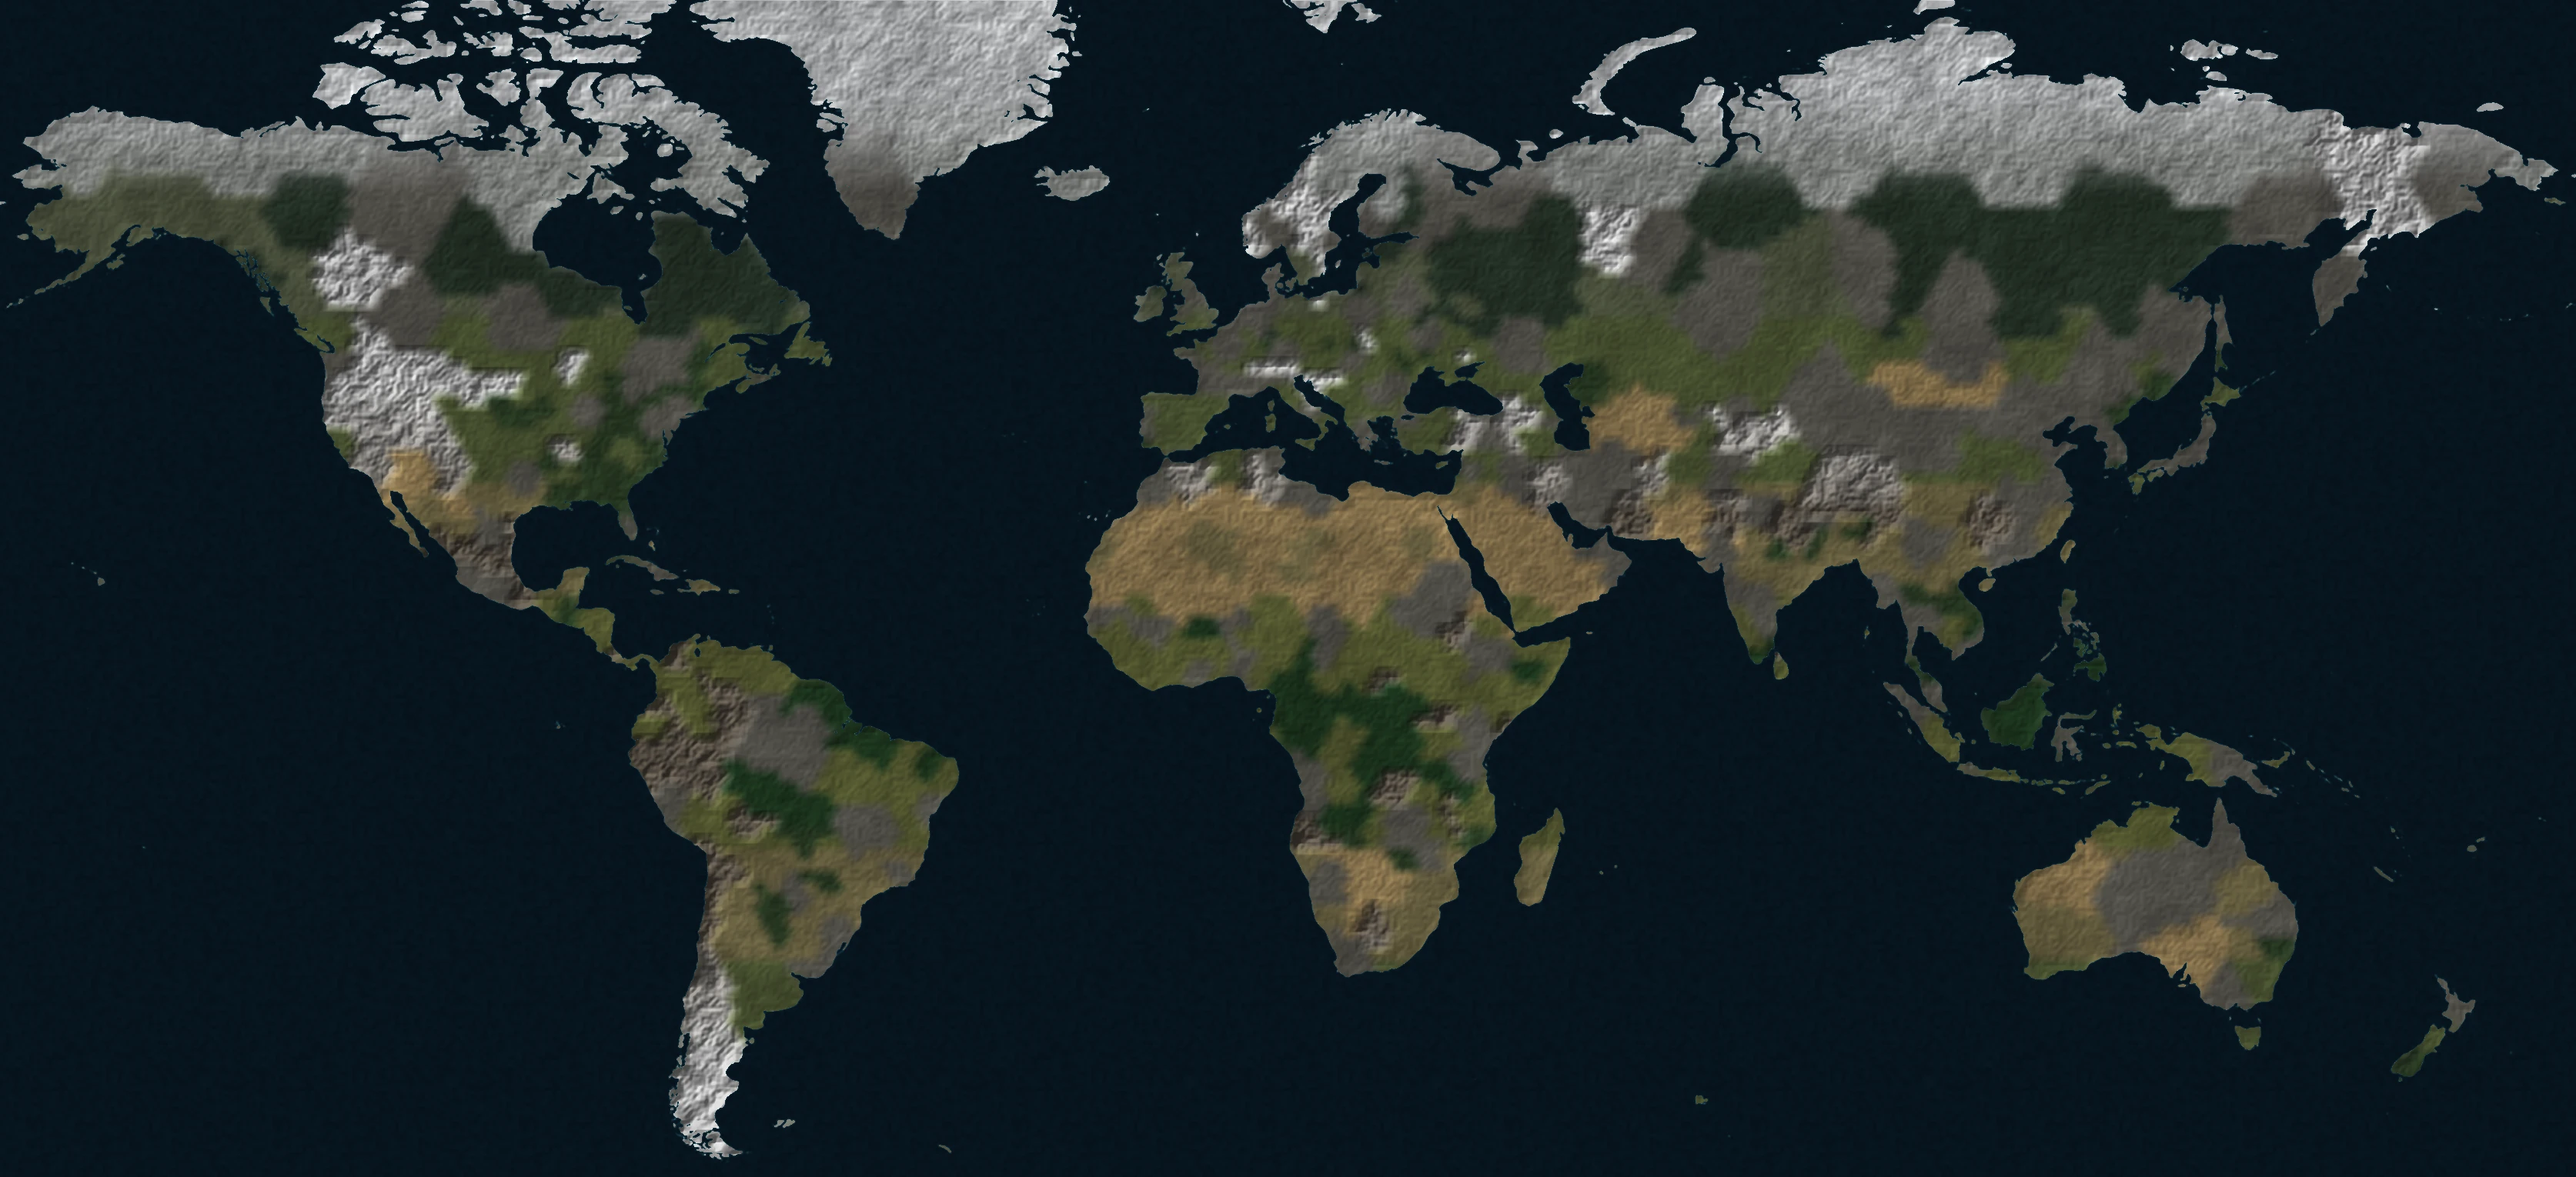
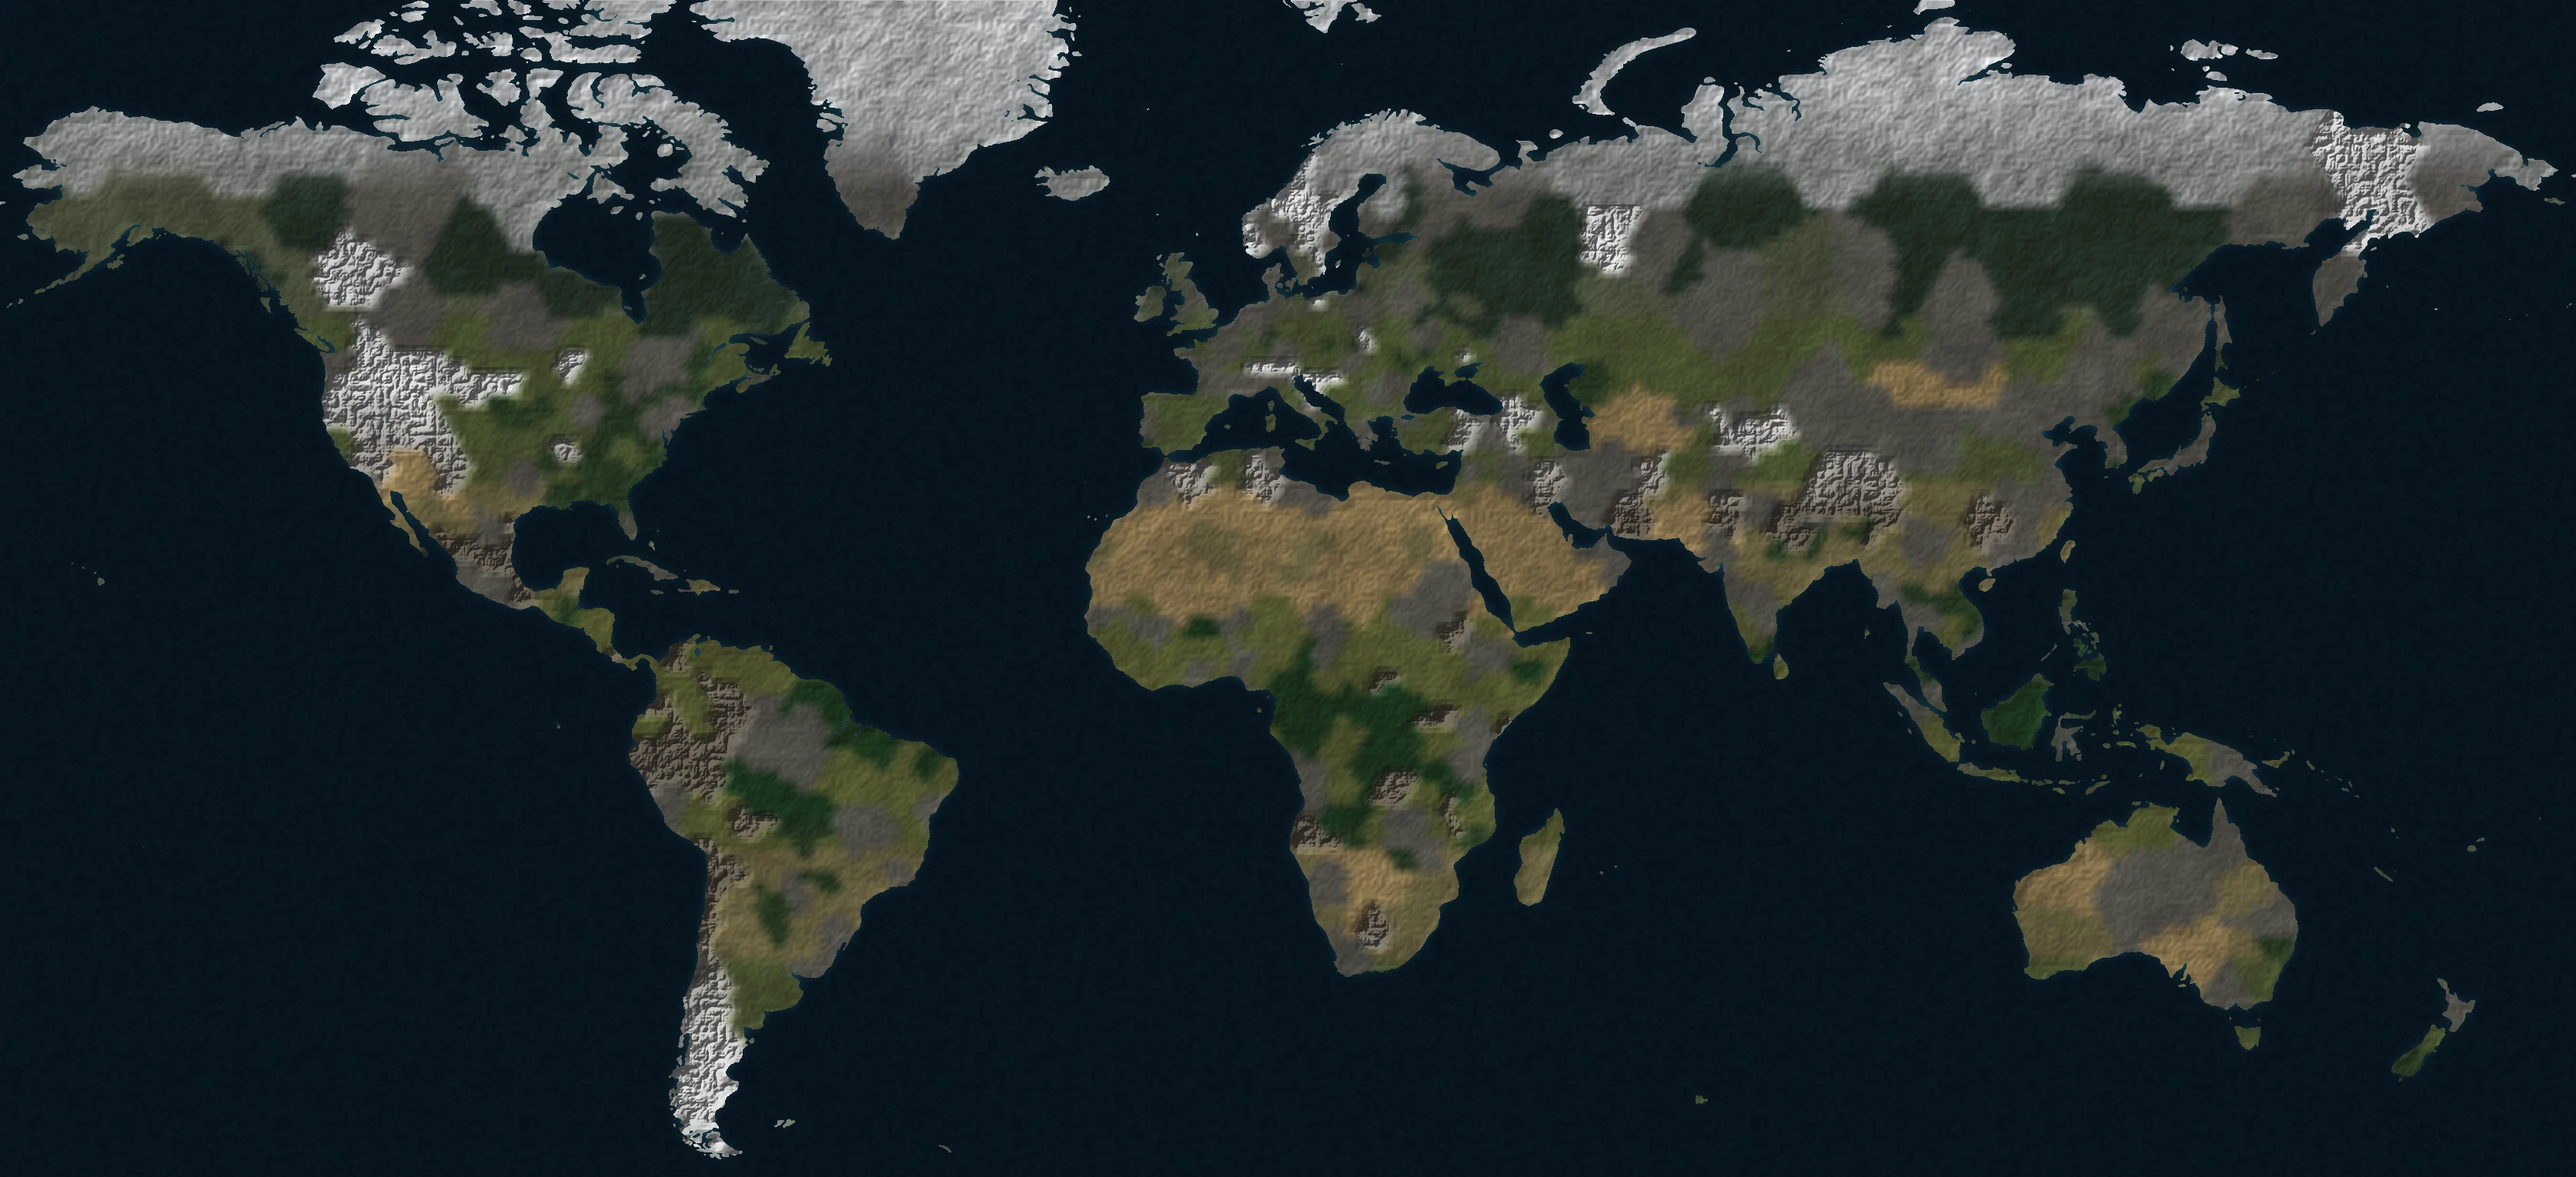
Round 29: shallow-water shelf, ridged mountains, night light pools, city halos, tracer streaks
Claude-Session: https://claude.ai/code/session_01KVGBc2Umi6eiR6tSvLXXtJ

diff --git a/index.html b/index.html
@@ -765,7 +765,7 @@ function buildTerrain(){
   // fill sea cells' colours with nearest land colour so blends at the coast are not grey
   for (let pass = 0; pass < 2; pass++) for (let i = 0; i < N; i++){ if (landF[i] || cR[i]) continue; let n = 0, r = 0, g = 0, b = 0;
     for (let d = 0; d < 6; d++){ const m = nbr(i, d); if (m >= 0 && cR[m]){ r += cR[m]; g += cG[m]; b += cB[m]; n++; } } if (n){ cR[i] = r/n; cG[i] = g/n; cB[i] = b/n; } }
-  const n1 = makeNoise(mulberry(101)), n2 = makeNoise(mulberry(202)), n3 = makeNoise(mulberry(303));
+  const n1 = makeNoise(mulberry(101)), n2 = makeNoise(mulberry(202)), n3 = makeNoise(mulberry(303)), n4 = makeNoise(mulberry(404));
   const rowStep = 1.5*HS, colStep = HS*SQ3;
   function sample(F, wx, wy){
     const cy = (wy - OY)/rowStep; let r0 = Math.floor(cy); const fy = cy - r0;
@@ -776,14 +776,16 @@ function buildTerrain(){
     return acc0;
   }
   // real coastlines (bake only): Natural Earth land rings in grid units ×40, plus a small disc at every land province so none vanish
-  let RLA = null;
+  let RLA = null, RLB = null;
   if (window.LANDPOLY){ const rc = document.createElement('canvas'); rc.width = w; rc.height = h; const g = rc.getContext('2d');
     g.setTransform(TS*HS*SQ3/40, 0, 0, TS*HS*1.5/40, TS*OX, TS*OY); g.beginPath();
     for (const off of [-W*40, 0, W*40]) for (const R of window.LANDPOLY){ g.moveTo(R[0] + off, R[1]); for (let i = 2; i < R.length; i += 2) g.lineTo(R[i] + off, R[i + 1]); g.closePath(); }
     g.fillStyle = '#fff'; g.fill('evenodd');
     g.setTransform(TS, 0, 0, TS, 0, 0); for (const P of G.P){ if (P.sea) continue; g.beginPath(); g.arc(P.x, P.y, HS*(P.city ? 0.5 : 0.32), 0, Math.PI*2); g.fill(); }
     const bc = document.createElement('canvas'); bc.width = w; bc.height = h; const bg = bc.getContext('2d'); bg.filter = 'blur(1.2px)'; bg.drawImage(rc, 0, 0);
-    const d = bg.getImageData(0, 0, w, h).data; RLA = new Float32Array(w*h); for (let i = 0; i < w*h; i++) RLA[i] = d[i*4 + 3]/255; }
+    const d = bg.getImageData(0, 0, w, h).data; RLA = new Float32Array(w*h); for (let i = 0; i < w*h; i++) RLA[i] = d[i*4 + 3]/255;
+    const sc2 = document.createElement('canvas'); sc2.width = w; sc2.height = h; const sg = sc2.getContext('2d'); sg.filter = 'blur(9px)'; sg.drawImage(rc, 0, 0);
+    const d2 = sg.getImageData(0, 0, w, h).data; RLB = new Float32Array(w*h); for (let i = 0; i < w*h; i++) RLB[i] = d2[i*4 + 3]/255; }
   const img = new ImageData(w, h), px = img.data, E = new Float32Array(w*h), L = new Float32Array(w*h);
   const mimg = new ImageData(w, h), mpx = mimg.data;
   for (let y = 0; y < h; y++){ const wy = y/TS;
@@ -792,12 +794,13 @@ function buildTerrain(){
       const land = RLA ? RLA[o]*0.9 + sample(landF, wx, wy)*0.1 + (fbm - 0.5)*0.12 : sample(landF, wx, wy) + (fbm - 0.5)*0.42;
       L[o] = land;
       const el = Math.max(0, sample(elevF, wx, wy));
-      E[o] = el*(0.45 + 0.9*nB + 0.35*nC) + nC*0.05;
+      const rg = el > 0.6 ? Math.pow(1 - Math.abs(2*n4(wx*0.07, wy*0.07) - 1), 2)*0.9 + Math.pow(1 - Math.abs(2*n4(wx*0.19 + 7, wy*0.19) - 1), 2)*0.35 : 0;   // ridged peaks in mountains
+      E[o] = el*(0.45 + 0.9*nB + 0.35*nC) + nC*0.05 + rg*el;
       if (land > 0.5){
         const v = 0.86 + (fbm - 0.5)*0.32;
         px[o*4] = sample(cR, wx, wy)*v; px[o*4 + 1] = sample(cG, wx, wy)*v; px[o*4 + 2] = sample(cB, wx, wy)*v;
       } else {
-        const depth = Math.max(0, Math.min(1, land/0.5)), sh = depth*depth, wave = (nC - 0.5)*6;
+        const depth = Math.max(0, Math.min(1, RLB ? Math.max(land/0.5*0.6, RLB[o]*1.15) : land/0.5)), sh = depth*depth, wave = (nC - 0.5)*6;
         px[o*4] = 7 + 17*sh + wave*0.4; px[o*4 + 1] = 20 + 44*sh + wave; px[o*4 + 2] = 30 + 46*sh + wave;
       }
       px[o*4 + 3] = 255;
@@ -1028,7 +1031,9 @@ function drawParticles(now){
     const x = fx0 + (tx0 - fx0)*k, y = fy0 + (ty0 - fy0)*k - Math.sin(k*Math.PI)*pr.arc*kz;
     if (pr.kind === 'tracer'){ const x2 = fx0 + (tx0 - fx0)*Math.max(0, k - 0.18), y2 = fy0 + (ty0 - fy0)*Math.max(0, k - 0.18); ctx.strokeStyle = 'rgba(255,225,140,.9)'; ctx.lineWidth = 1.4; ctx.beginPath(); ctx.moveTo(x2, y2); ctx.lineTo(x, y); ctx.stroke(); }
     else { if (pr.kind === 'missile' && now - pr.last > 30){ pr.last = now; const [wx, wy] = screenToWorld(x, y); emit('smokel', wx, wy, {vx:(Math.random() - 0.5)*4, vy:-2, s0:4, s1:14, life:1300}); }
-      ctx.save(); ctx.globalCompositeOperation = 'lighter'; ctx.drawImage(GLOW(), x - 6, y - 6, 12, 12); ctx.restore(); ctx.fillStyle = '#fff2c8'; ctx.beginPath(); ctx.arc(x, y, 1.6, 0, Math.PI*2); ctx.fill(); } }
+      const kb = Math.max(0, k - 0.07), xb = fx0 + (tx0 - fx0)*kb, yb = fy0 + (ty0 - fy0)*kb - Math.sin(kb*Math.PI)*pr.arc*kz;
+      ctx.save(); ctx.globalCompositeOperation = 'lighter'; ctx.strokeStyle = pr.kind === 'missile' ? 'rgba(255,190,120,.9)' : 'rgba(255,236,190,.95)'; ctx.lineWidth = pr.kind === 'missile' ? 1.6 : 1.2; ctx.beginPath(); ctx.moveTo(xb, yb); ctx.lineTo(x, y); ctx.stroke();
+      ctx.globalAlpha = 0.6; ctx.drawImage(GLOW(), x - 4, y - 4, 8, 8); ctx.restore(); } }
   // muzzle stars (60 ms)
   for (let i = MUZZ.length - 1; i >= 0; i--){ const m0 = MUZZ[i], age = now - m0.t0; if (age > 45){ MUZZ.splice(i, 1); continue; }
     { const [x, y] = toScreen(m0.wx, m0.wy), L0 = 9*m0.big*kz, k3 = 1 - age/45; ctx.save(); ctx.globalCompositeOperation = 'lighter'; ctx.globalAlpha = k3; ctx.drawImage(GLOW(), x - L0, y - L0, L0*2, L0*2);
@@ -1043,7 +1048,8 @@ function drawParticles(now){
     const [bx, by] = toScreen(q.wx, q.wy), x = bx + q.ox*kz, y = by + q.oy*kz, sz = (q.s0 + (q.s1 - q.s0)*k)*kz;
     if (x < -60 || y < -60 || x > cw + 60 || y > ch + 60) continue;
     if (q.kind === 'smoke' || q.kind === 'smokel'){ ctx.globalAlpha = 0.55*(k < 0.12 ? k/0.12 : 1 - (k - 0.12)/0.88); ctx.save(); ctx.translate(x, y); ctx.rotate(q.rot + q.spin*k*3); ctx.drawImage(q.kind === 'smoke' ? SMOKE(q) : SMOKEL(q), -sz, -sz, sz*2, sz*2); ctx.restore(); }
-    else if (q.kind === 'fire' || q.kind === 'flash'){ ctx.save(); ctx.globalCompositeOperation = 'lighter'; ctx.globalAlpha = 1 - k; ctx.drawImage(q.kind === 'flash' ? GLOW() : FIRE(), x - sz, y - sz, sz*2, sz*2); ctx.restore(); }
+    else if ((q.kind === 'fire' || q.kind === 'flash') && nightAtX(q.wx ?? 0) > 0.3 && k < 0.6){ ctx.save(); ctx.globalCompositeOperation = 'lighter'; ctx.globalAlpha = 0.18*(1 - k)*nightAtX(q.wx ?? 0); ctx.drawImage(GLOW(), x - sz*3.2, y - sz*2.2, sz*6.4, sz*4.4); ctx.restore(); }
+    if (q.kind === 'fire' || q.kind === 'flash'){ ctx.save(); ctx.globalCompositeOperation = 'lighter'; ctx.globalAlpha = 1 - k; ctx.drawImage(q.kind === 'flash' ? GLOW() : FIRE(), x - sz, y - sz, sz*2, sz*2); ctx.restore(); }
     else if (q.kind === 'ring'){ ctx.globalAlpha = 0.55*(1 - k); ctx.strokeStyle = '#ffe6b0'; ctx.lineWidth = 2; ctx.beginPath(); ctx.ellipse(x, y, sz, sz*0.45, 0, 0, Math.PI*2); ctx.stroke(); }
     else if (q.kind === 'spark' || q.kind === 'debris'){ ctx.globalAlpha = 1 - k; ctx.fillStyle = q.kind === 'spark' ? '#ffd27a' : '#2a2a26'; ctx.fillRect(x - sz/2, y - sz/2, sz, sz); }
     else if (q.kind === 'dust'){ ctx.globalAlpha = 0.32*(k < 0.1 ? k/0.1 : 1 - k); ctx.save(); ctx.translate(x, y); ctx.rotate(q.rot); ctx.scale(1, 0.6); ctx.drawImage(puffSprite(q.v, false), -sz, -sz, sz*2, sz*2); ctx.restore(); }
@@ -1121,6 +1127,11 @@ function drawNight(){
   for (let k2 = -2; k2 <= 1; k2++) ctx.drawImage(tex, start + k2*360*wpd, OY - HS*0.75, 360*wpd, HS*1.5*H);
   ctx.restore(); void lonAt;
 }
+// 0 by day, 1 deep at night, for a world x coordinate (used for light pools)
+let NAX = {h:-1, v:null};
+function nightAtX(wx){ const hb = Math.floor((S.hour + (S.speed && !S.over ? acc : 0))*4); if (NAX.h !== hb){ NAX = {h:hb, v:new Float32Array(64)}; const live = hb/4, sl = ((12 - (live % 24))*15 + 540) % 360 - 180;
+    for (let i = 0; i < 64; i++){ const lon = WORLD.lon0 + (i + 0.5)/64*360, c = Math.cos((lon - sl)*Math.PI/180); NAX.v[i] = Math.max(0, Math.min(1, (-c + 0.05)/0.35)); } }
+  const i = Math.floor(((wx - OX)/(HS*SQ3*W))*64); return NAX.v[((i % 64) + 64) % 64]; }
 function isNight(p){ const live = S.speed && !S.over ? acc : 0, sl = ((12 - ((S.hour + live) % 24))*15 + 540) % 360 - 180, lon = WORLD.lon0 + ((G.P[p].cc % W) + 0.5)/W*360; return Math.cos((lon - sl)*Math.PI/180) < -0.12; }
 function fx(type, p, extra = {}){ if (!booted) return;
   if (type === 'dmg' && extra.owner != null && extra.val != null){ const now = performance.now(), f0 = FX.find(f => f.type === 'dmg' && f.p === p && f.owner === extra.owner && now - f.t0 < 1000 && now - (f.born || f.t0) < 3500);
@@ -2607,7 +2618,7 @@ function draw(now){
     if (x < -40 || y < -40 || x > cw + 40 || y > ch + 40) continue;
     const cap = isCapital(p), dim = vis.has(p) ? 1 : 0.55;
     ctx.globalAlpha = dim;
-    if (P.city && hexPx >= 2.5 && isNight(p)){ ctx.save(); ctx.globalCompositeOperation = 'lighter'; ctx.globalAlpha = 0.55; ctx.drawImage(GLOW(), x - 9*kl, y + 9*kl - 9*kl, 18*kl, 18*kl); ctx.restore(); }
+    if (P.city && hexPx >= 2.5 && isNight(p)){ const gr = (cap ? 15 : 10)*kl; ctx.save(); ctx.globalCompositeOperation = 'lighter'; ctx.globalAlpha = 0.5; ctx.drawImage(GLOW(), x - gr, y + 9*kl - gr, gr*2, gr*2); ctx.globalAlpha = 0.18; ctx.drawImage(GLOW(), x - gr*2.4, y + 9*kl - gr*1.6, gr*4.8, gr*3.2); ctx.restore(); }
     if (cap && hexPx >= 2){ star(x, y + 9*kl, 6*kl); ctx.fillStyle = '#f3ead2'; ctx.fill(); ctx.lineWidth = 1.2; ctx.strokeStyle = '#0b1012'; ctx.stroke(); }
     else if (P.city && showCity){ ctx.fillStyle = '#f3ead2'; ctx.strokeStyle = '#0b1012'; ctx.lineWidth = 1.2; ctx.fillRect(x - 3*kl, y + 6*kl, 6*kl, 6*kl); ctx.strokeRect(x - 3*kl, y + 6*kl, 6*kl, 6*kl); }
     if (P.oil && hexPx >= 8){ const ox = x + (P.city || cap ? 10*kl : 0), oy = y + 9*kl; ctx.beginPath(); ctx.arc(ox, oy + 1.2*kl, 2.8*kl, 0, Math.PI*2); ctx.moveTo(ox - 2.4*kl, oy); ctx.lineTo(ox, oy - 4.2*kl); ctx.lineTo(ox + 2.4*kl, oy); ctx.fillStyle = '#16140f'; ctx.fill(); ctx.strokeStyle = 'rgba(243,234,210,.8)'; ctx.lineWidth = 1; ctx.stroke(); }

diff --git a/CHANGELOG.md b/CHANGELOG.md
@@ -207,3 +207,9 @@
 - The victory tracker shows on phones, in a compact size.
 - Battle report links can no longer open the wrong battle.
 - Performance: each nation's income is computed once per game hour instead of on every call.
+
+## Round 29 — Light and water
+- Coasts: the baked terrain gains a wide shallow-water shelf. The sea brightens towards the coast over a broad blurred band from the real coastline, so coasts read as shelves of turquoise shallows rather than flat navy against land.
+- Mountains: ridged noise adds sharp peaks and valleys to mountain ranges in the hill-shading, so the Alps, Rockies or Himalaya read as ranges instead of a soft smear at close zoom.
+- Night lighting: fires and explosions cast warm light pools on the ground at night, scaled by how dark it is at that longitude. Cities glow with a bright core and a wider halo, larger for capitals.
+- Projectiles: shells and missiles fly as short bright streaks along their arc instead of glowing orange balls.
